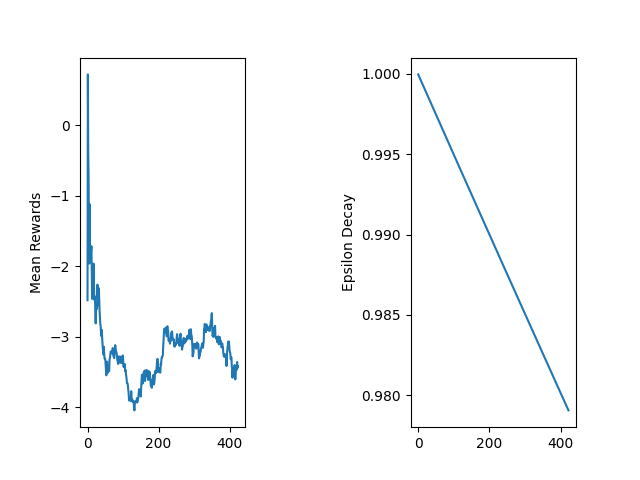
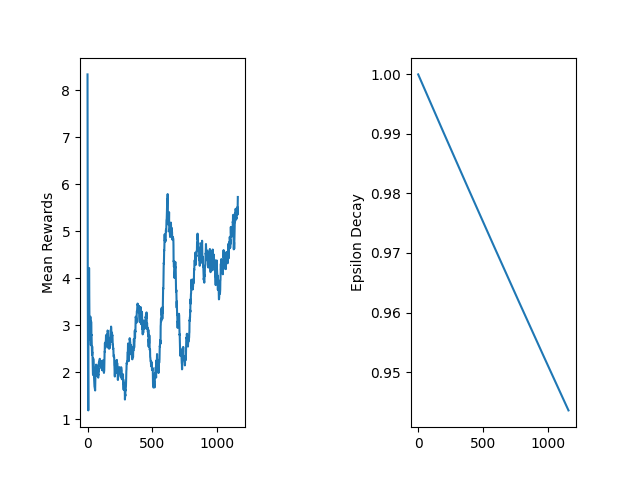
fix headless mode

diff --git a/V4/racer.py b/V4/racer.py
@@ -29,10 +29,12 @@ class Racer(gym.Env):
         ]
         self.current_checkpoint = 0
 
+        # Initialize display (needed even for headless to use .convert())
         if render_mode == "human":
             self.screen = pygame.display.set_mode((self.WIDTH, self.HEIGHT))
         else:
-            self.screen = pygame.Surface((self.WIDTH, self.HEIGHT))
+            # Create a dummy display for headless mode
+            self.screen = pygame.display.set_mode((self.WIDTH, self.HEIGHT))
 
         self.clock = pygame.time.Clock()
 
@@ -197,6 +199,13 @@ class Racer(gym.Env):
     def render(self):
         if self.render_mode != "human":
             return
+        
+        # Handle events first
+        for event in pygame.event.get():
+            if event.type == pygame.QUIT:
+                pygame.quit()
+                return
+        
         self.screen.blit(self.track, (0, 0))
         # Draw lidar
         angles = [-60, -30, 0, 30, 60]
@@ -211,9 +220,6 @@ class Racer(gym.Env):
         self.screen.blit(rotated_car, rect.topleft)
         pygame.display.flip()
         self.clock.tick(self.metadata["render_fps"])
-        for event in pygame.event.get():
-            if event.type == pygame.QUIT:
-                pygame.quit()
 
     def close(self):
         pygame.quit()

diff --git a/V4/test.py b/V4/test.py
@@ -1,0 +1,22 @@
+import time
+from racer import Racer
+
+# Test headless
+env = Racer(render_mode=None, track_num=1)
+start = time.time()
+for _ in range(10000):
+    env.step(env.action_space.sample())
+    if env.crashed:
+        env.reset()
+headless_time = time.time() - start
+print(f"Headless: {10000/headless_time:.0f} steps/sec")
+
+# Test human mode
+env = Racer(render_mode="human", track_num=1)
+start = time.time()
+for _ in range(1000):  # fewer steps since it's slower
+    env.step(env.action_space.sample())
+    if env.crashed:
+        env.reset()
+human_time = time.time() - start
+print(f"Human: {1000/human_time:.0f} steps/sec")

diff --git a/V4/agent.py b/V4/agent.py
@@ -78,7 +78,9 @@ class Agent():
                 file.write(log_message + '\n')
 
         # Create instance of the environment.
-        env = Racer(render_mode="human", track_num=TRACK_NUM)
+        # Create instance of the environment with appropriate render mode
+        render_mode = "human" if render else None
+        env = Racer(render_mode=render_mode, track_num=TRACK_NUM)
 
         # Number of possible actions
         num_actions = env.action_space.n
